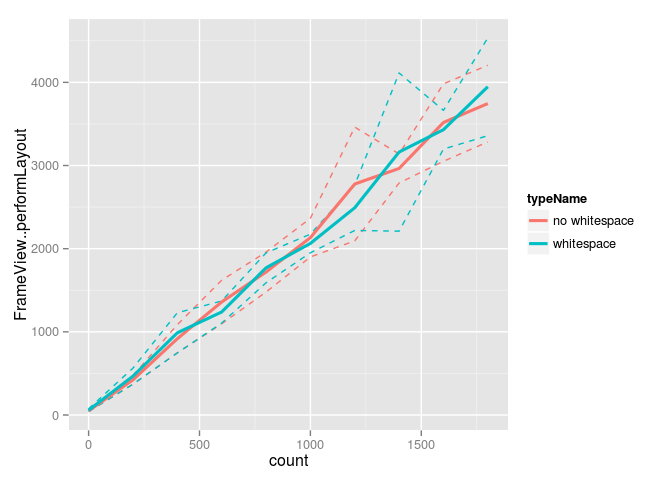
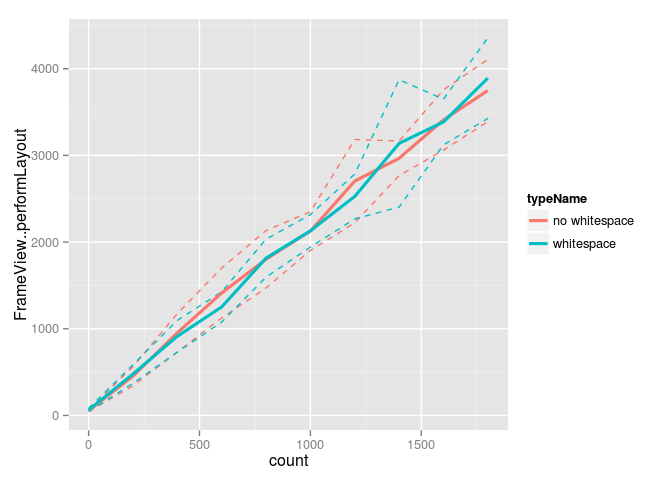
Some more experiments.

diff --git a/styleModel.md b/styleModel.md
@@ -23,14 +23,30 @@ As above, but without whitespace between divs (to avoid O(N^2) style). Graphs co
 
 ![](styleModel_files/figure-markdown_github/unnamed-chunk-4-1.png) ![](styleModel_files/figure-markdown_github/unnamed-chunk-4-2.png) ![](styleModel_files/figure-markdown_github/unnamed-chunk-4-3.png)
 
-Looking at just whitespace. Graphs contain 180 samples.
+Looking at just whitespace. Graphs contain 420 samples.
 
 ![](styleModel_files/figure-markdown_github/unnamed-chunk-6-1.png) ![](styleModel_files/figure-markdown_github/unnamed-chunk-6-2.png) ![](styleModel_files/figure-markdown_github/unnamed-chunk-6-3.png)
 
-Without text nodes, the cost of updateStyle is linear, with an intercept of 296.2808081 and a slope of 1.7324411.
+Without text nodes, the cost of updateStyle is linear, with an intercept of 357.1350649 and a slope of 1.6909928.
 
 ![](styleModel_files/figure-markdown_github/unnamed-chunk-8-1.png)
 
-Introducing whitespace gives a cost that we assume fits a cubic with 0 intercept, and constrained positive parameters of 0, 0.0043433, 3.519683910^{-6}.
+Introducing whitespace gives a cost that we assume fits a quadratic with 0 intercept, and constrained positive parameters of 0, 0.0101422.
 
 ![](styleModel_files/figure-markdown_github/unnamed-chunk-9-1.png)
+
+No style at all (with and without whitespace). Graphs contain 460 samples.
+
+![](styleModel_files/figure-markdown_github/unnamed-chunk-11-1.png) ![](styleModel_files/figure-markdown_github/unnamed-chunk-11-2.png) ![](styleModel_files/figure-markdown_github/unnamed-chunk-11-3.png)
+
+The same repeated rule, applying to 1000 elements. Graphs contain 100 samples.
+
+![](styleModel_files/figure-markdown_github/unnamed-chunk-13-1.png) ![](styleModel_files/figure-markdown_github/unnamed-chunk-13-2.png) ![](styleModel_files/figure-markdown_github/unnamed-chunk-13-3.png)
+
+The same repeated rule with a different selector for each rule. One version applies to 1000 elements. Graphs contain 200 samples.
+
+![](styleModel_files/figure-markdown_github/unnamed-chunk-15-1.png) ![](styleModel_files/figure-markdown_github/unnamed-chunk-15-2.png) ![](styleModel_files/figure-markdown_github/unnamed-chunk-15-3.png)
+
+The same repeated rule with a different selector for each rule. Each rule applies to a single element. Graphs contain 20 samples.
+
+![](styleModel_files/figure-markdown_github/unnamed-chunk-17-1.png) ![](styleModel_files/figure-markdown_github/unnamed-chunk-17-2.png) ![](styleModel_files/figure-markdown_github/unnamed-chunk-17-3.png)
